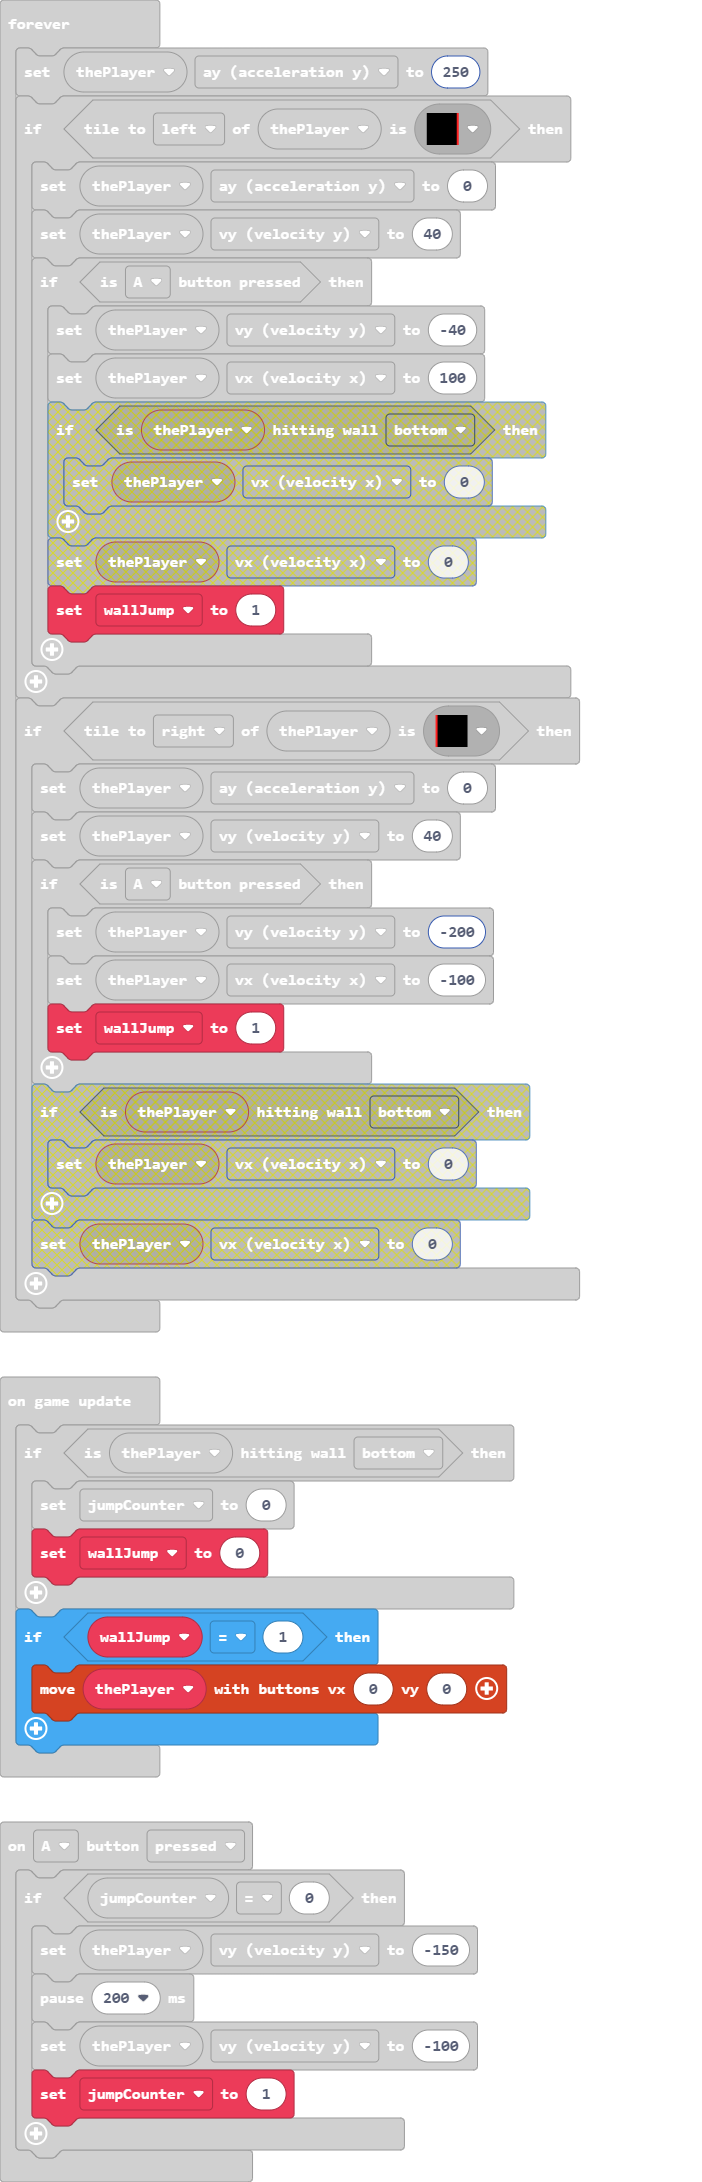
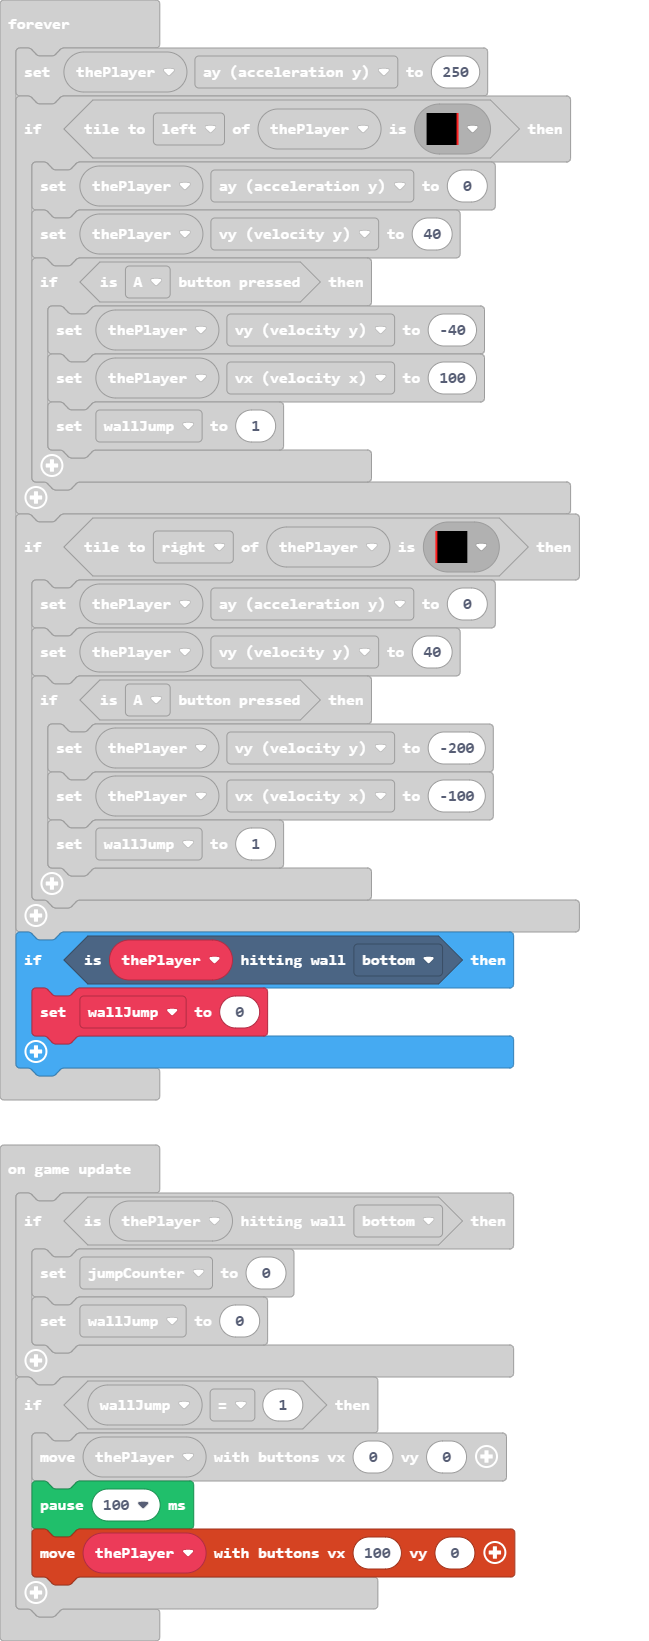
Update main.blocks, main.ts

diff --git a/main.ts b/main.ts
@@ -86,6 +86,8 @@ game.onUpdate(function () {
     }
     if (wallJump == 1) {
         controller.moveSprite(thePlayer, 0, 0)
+        pause(100)
+        controller.moveSprite(thePlayer, 100, 0)
     }
 })
 forever(function () {
@@ -107,5 +109,8 @@ forever(function () {
             thePlayer.vx = -100
             wallJump = 1
         }
+    }
+    if (thePlayer.isHittingTile(CollisionDirection.Bottom)) {
+        wallJump = 0
     }
 })
